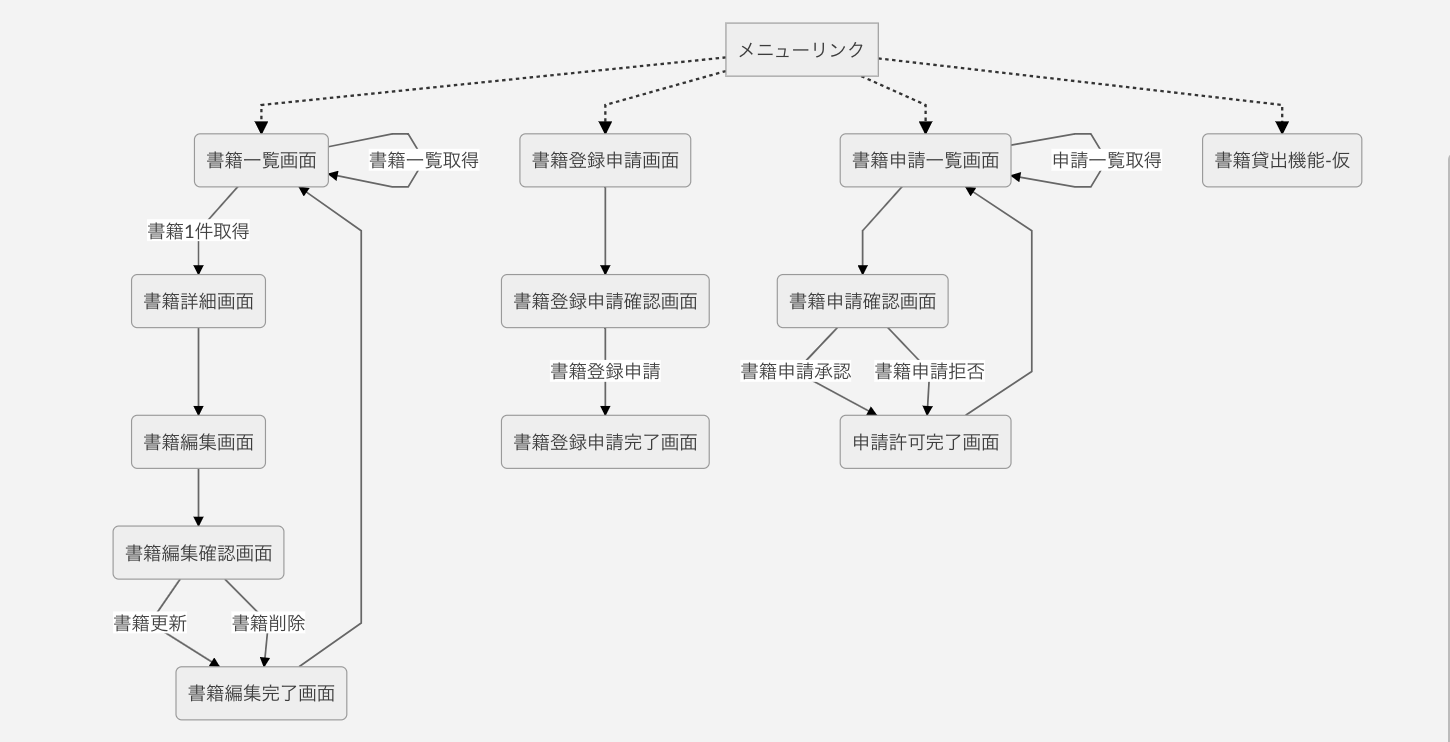
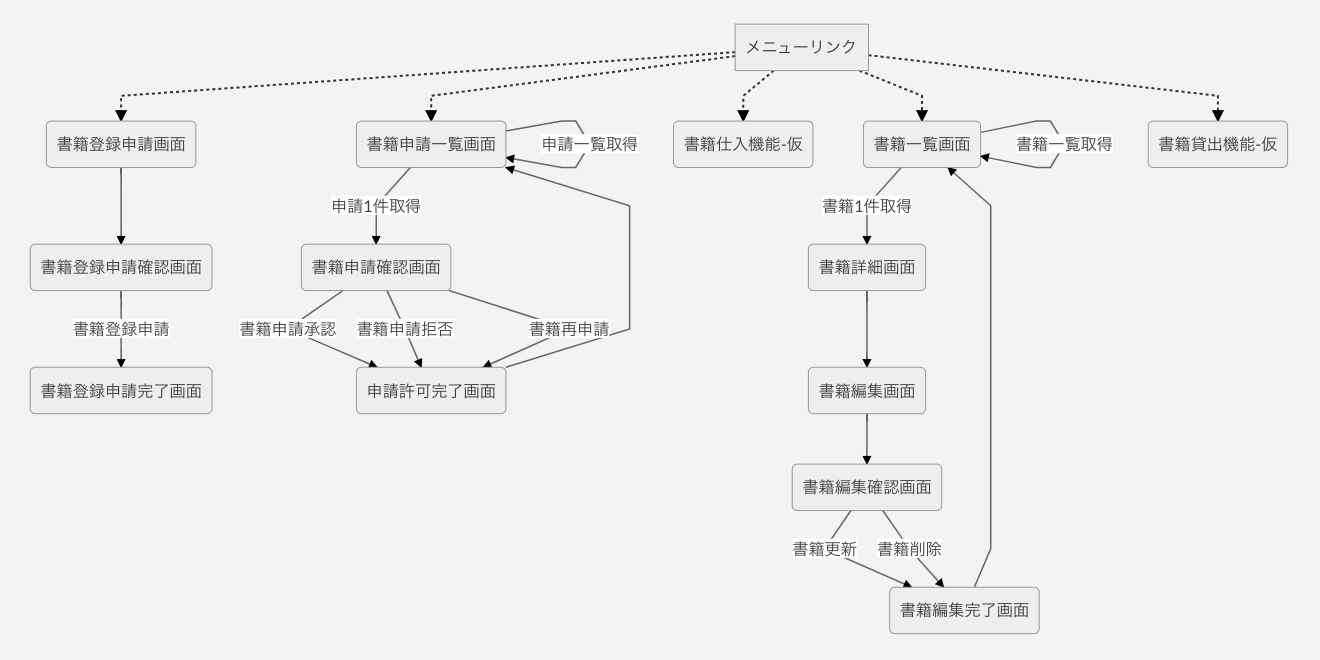
0513のMTG結果反映中

diff --git a/document/02.概要設計/README.md b/document/02.概要設計/README.md
@@ -55,23 +55,26 @@ sequenceDiagram
 
 ```mermaid
 graph TD
-    A[メニューリンク] -.-> B(書籍一覧画面)
-    B -->|書籍一覧取得| B
-    B -->|書籍1件取得| C(書籍詳細画面)
-    C --> D(書籍編集画面)
-    D --> E(書籍編集確認画面)
-    E -->|書籍更新| F(書籍編集完了画面)
-    E -->|書籍削除| F
-    F --> B
-    A -.-> H(書籍登録申請画面)
-    H --> I(書籍登録申請確認画面)
-    I -->|書籍登録申請| J(書籍登録申請完了画面)
-    A -.-> M(書籍申請一覧画面)
-    M -->|申請一覧取得| M
-    M --> N(書籍申請確認画面)
-    N -->|書籍申請承認| O(申請許可完了画面)
-    N -->|書籍申請拒否| O
-    O --> M
-    A -.-> R(書籍貸出機能-仮)
+	A[メニューリンク]
+	A -.-> H(書籍登録申請画面)
+	H --> I(書籍登録申請確認画面)
+	I -->|書籍登録申請| J(書籍登録申請完了画面)
+	A -.-> M(書籍申請一覧画面)
+	M -->|申請一覧取得| M
+	M -->|申請1件取得| N(書籍申請確認画面)
+	N -->|書籍申請承認| O(申請許可完了画面)
+	N -->|書籍申請拒否| O
+	N -->|書籍再申請| O
+	O --> M
+	A -.-> Y(書籍仕入機能-仮)
+	A -.-> B(書籍一覧画面)
+	B -->|書籍一覧取得| B
+	B -->|書籍1件取得| C(書籍詳細画面)
+	C --> D(書籍編集画面)
+	D --> E(書籍編集確認画面)
+	E -->|書籍更新| F(書籍編集完了画面)
+	E -->|書籍削除| F
+	F --> B
+	A -.-> Z(書籍貸出機能-仮)
 ```
 
